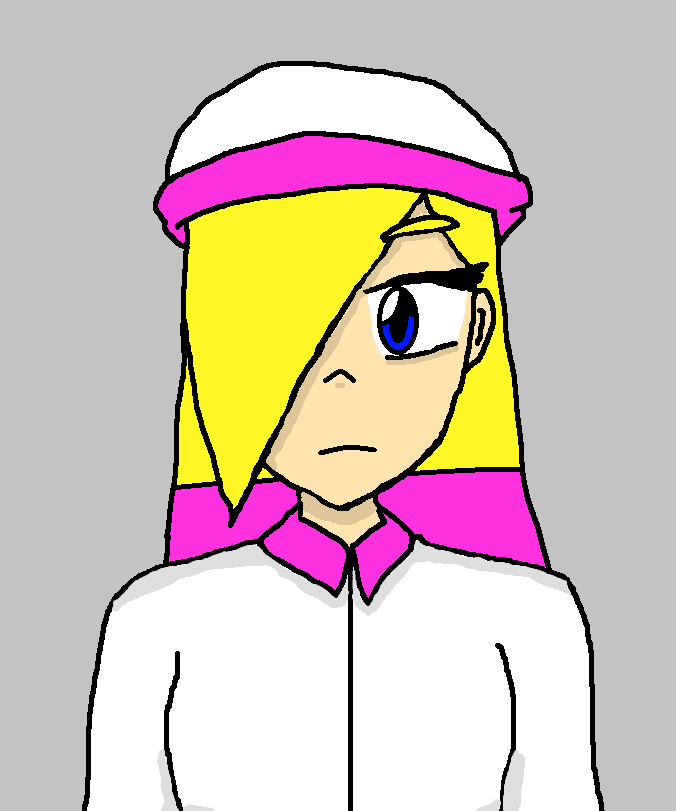
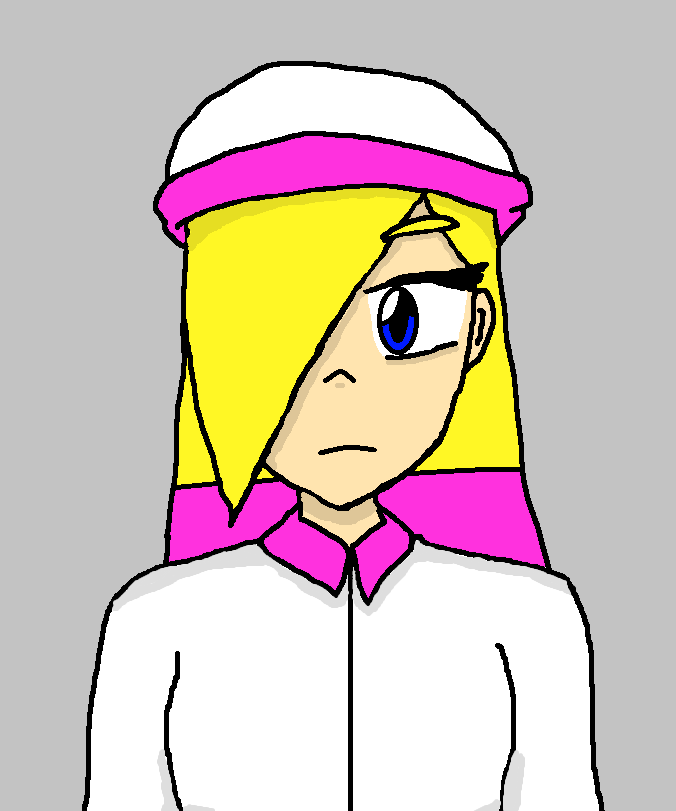
Fixed issues with Tess picture

Changed region(s): [[0.2796, 0.2158, 0.7456, 0.3083]]

diff --git a/tesseract.html b/tesseract.html
@@ -20,7 +20,7 @@
 <div class="centered-box">
 <h1>Tesseract</h1>
 
-<img src= "pixeltess.png" width=200 height=210 />
+<img src= "tess.png" width=235 height=275/>
 
 <nav>
 
